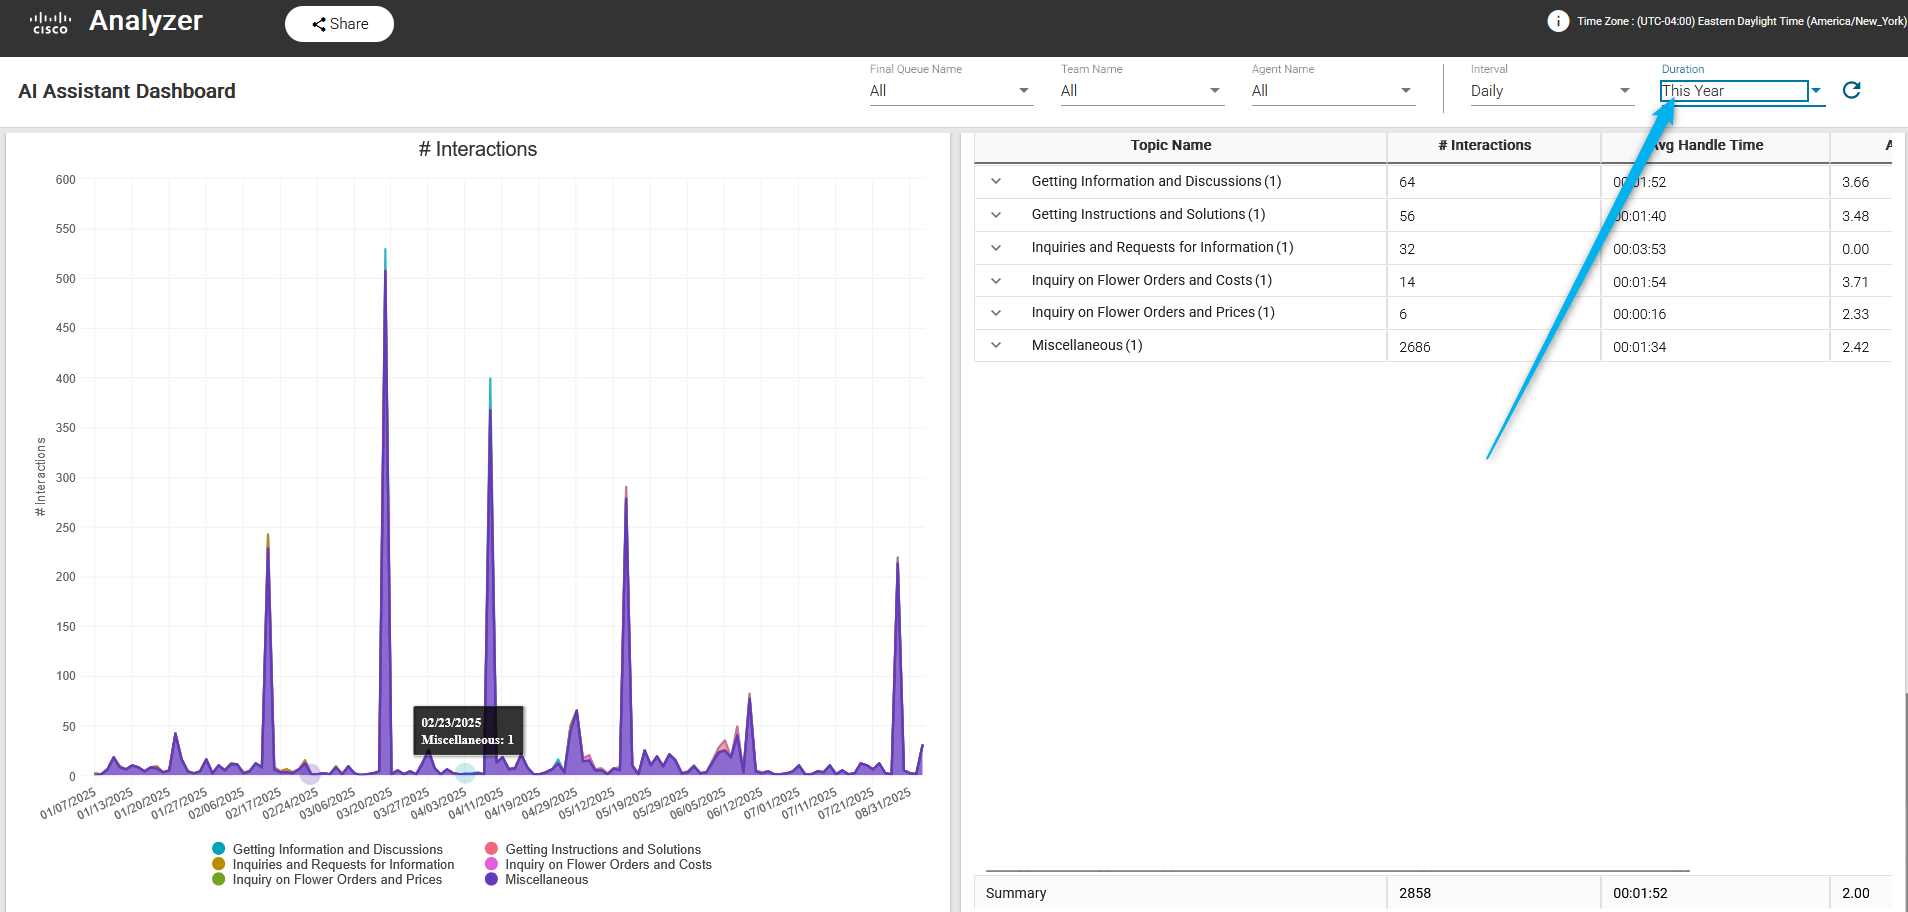
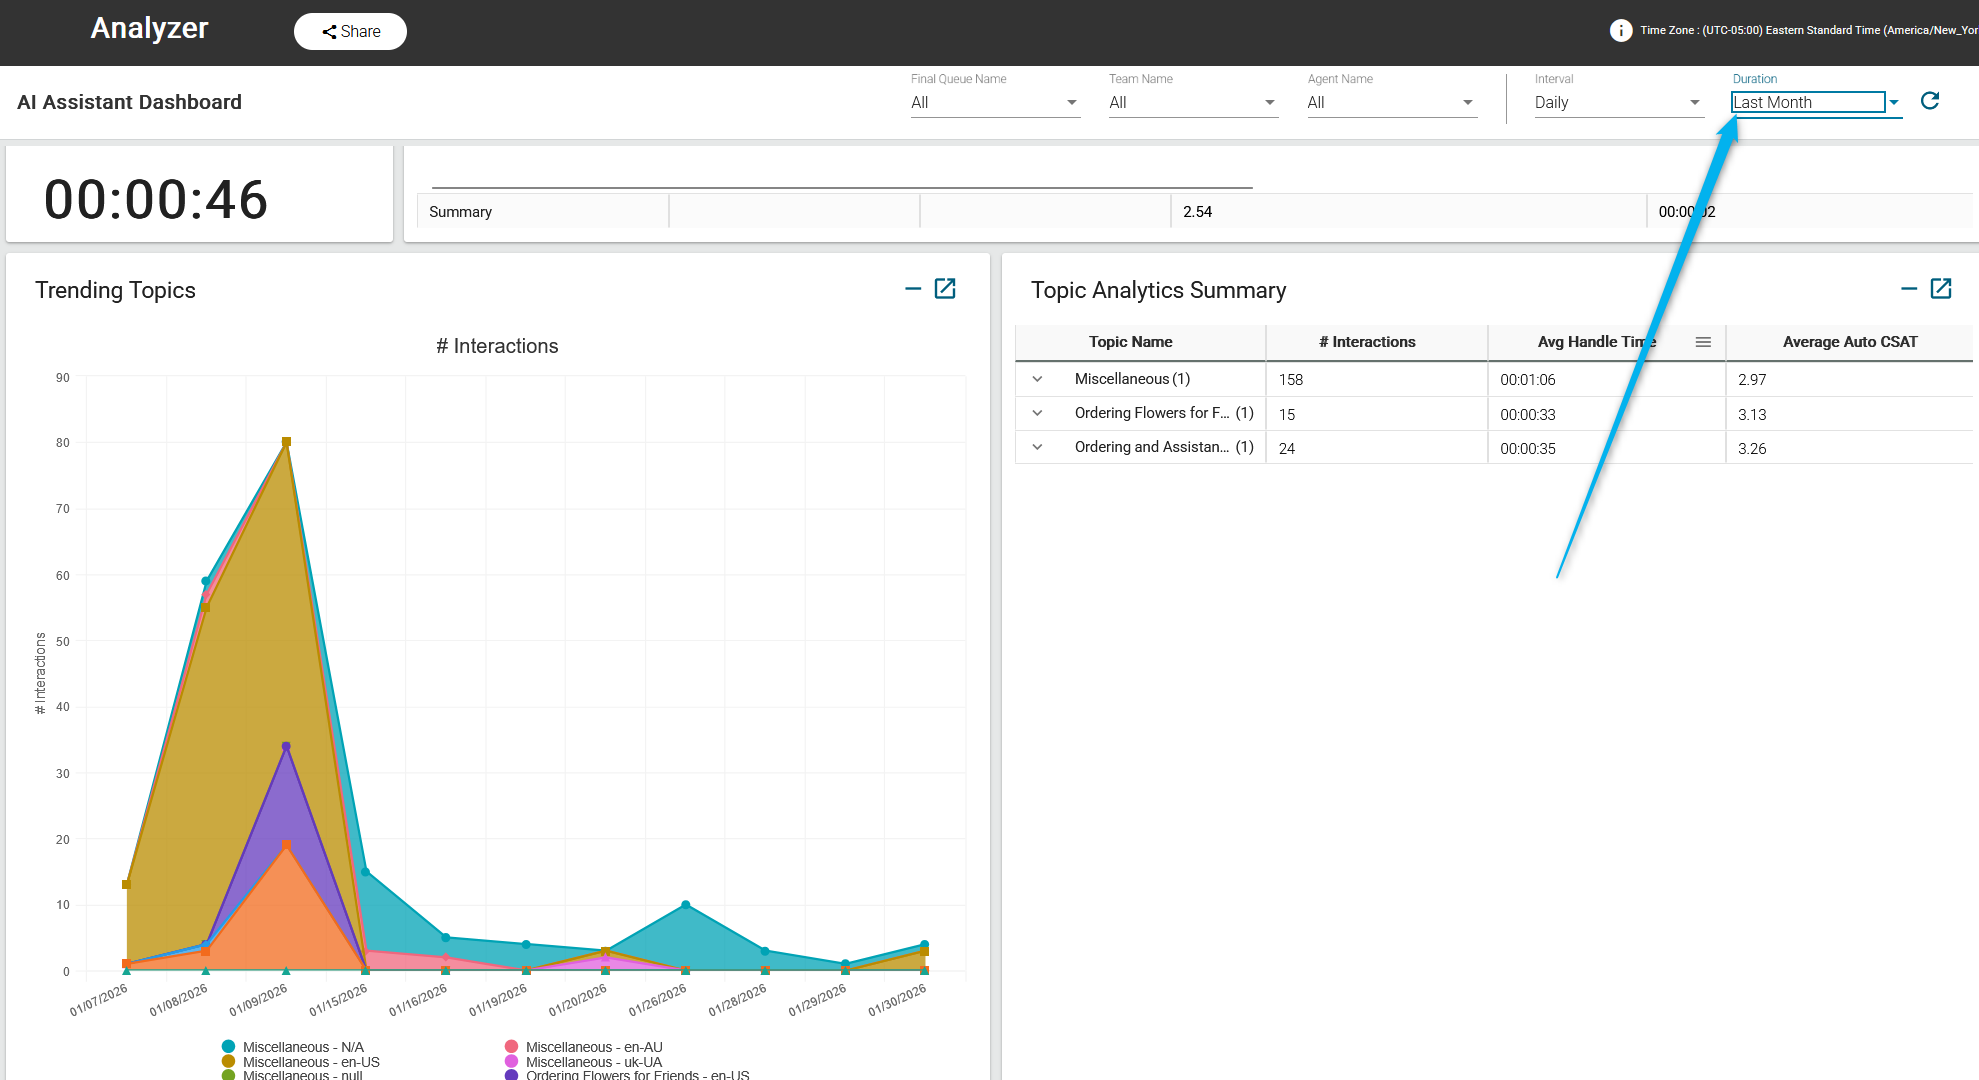
1

diff --git a/docs/main/AI_Lab_Topic_Mission1.md b/docs/main/AI_Lab_Topic_Mission1.md
@@ -33,37 +33,11 @@ Click on **Edit Topics** on the top-right corner.
 2. In the Name Copy screen, edit the topic collection name. By default, Copy of existing collection name appears in the Topic collection name field. For this lab you can call it with any name you prepare. 
    ![Profiles](../graphics/Lab1_AI_Agent/1.8.png)
 
-3.  Optionally, topics can be merged or deleted. <span style="color: red;">[Please do not do it while working on this lab]</span>.
+3.  Optionally, topics can be merged. <span style="color: red;">[Please do not do it while working on this lab]</span>.
    ![Profiles](../graphics/Lab1_AI_Agent/1.17.png)
 
-4. Click on Add New
+4. Or you can add a new topic, and the AI module will analyze the transcript specifically for the keywords that you provide. We will not be adding a new collection in this lab, as it requires some time for the system to generate the new collection.
    ![Profiles](../graphics/Lab1_AI_Agent/1.9.png)
-
-5. Configure the tops with the contact reason examples.</br>
-    Add Topic Labol: ***<copy>Flower Reason</copy>***
-    
-    Contact Reasons: </br>
-    
-    ***<copy>I need flowers for the party</copy>***</br>
-    ***<copy>Need to order flower for Birthday</copy>***</br>
-   ***<copy>Anniversary</copy>***</br>
-    >
-   ![Profiles](../graphics/Lab1_AI_Agent/1.10.png)
-
-6. Click on **Next**.
-   ![Profiles](../graphics/Lab1_AI_Agent/1.11.png)
-
-7. <span style="color: red;">[Read Only]</span>  Review the **Edits** but for this lab overview **DO NOT click** on  **Create new topic collection**, as it would take some time for it to be created. 
-   ![Profiles](../graphics/Lab1_AI_Agent/1.12.png)
-
-8. <span style="color: red;">[Read Only]</span>  On the next Windows you would see that new collection is creating.
-   ![Profiles](../graphics/Lab1_AI_Agent/1.13.png)
-
-9. <span style="color: red;">[Read Only]</span>  From Topic Analytics you would see that a new Topic collection will be creating, and if you have enough calls with the provided reason, the data will show up in the Topic.
-   ![Profiles](../graphics/Lab1_AI_Agent/1.14.png)
-
-10. For this lab open up topic with name **Flower Delivery_2** to see the expected results.
-   ![Profiles](../graphics/Lab1_AI_Agent/1.30.png)
 
 
 #### Task 3. Review Topic Analytics reports in AI Assistant Dashboard. 
@@ -71,13 +45,13 @@ Click on **Edit Topics** on the top-right corner.
 1. From [Control Hub](https://admin.webex.com){:target="_blank"} login to Analyzer. 
    ![Profiles](../graphics/Lab1_AI_Agent/1.18.png)
 
-2. Click on Dashboard and search for the Dashboard with name ***<copy>AI Assistant Dashboard</copy>***. Open the Dashboard with ID -1284.
+2. Click on **Dashboard** and search for the Dashboard with name ***<copy>AI Assistant Dashboard</copy>***. Open the Dashboard with ID -1284.
    ![Profiles](../graphics/Lab1_AI_Agent/1.20.png)
 
 3. Scroll down and select the duration as **Last Month**
    ![Profiles](../graphics/Lab1_AI_Agent/1.21.png)
 
-4. To check the graph for flower-related topics, uncheck all other topics, leaving only **Inquiry on Flower and Costs** and **Inquiry on Flower Order and Prices**.
+4. To check the graph for flower-related topics, uncheck all other topics, leaving only **Ordering Flowers for Friends** and **Ordering and Assistance Inquiries**. The Miscellaneous are the calls that were analyzed not related to any topic yet. 
    ![Profiles](../graphics/Lab1_AI_Agent/1.24.png)
 
 
